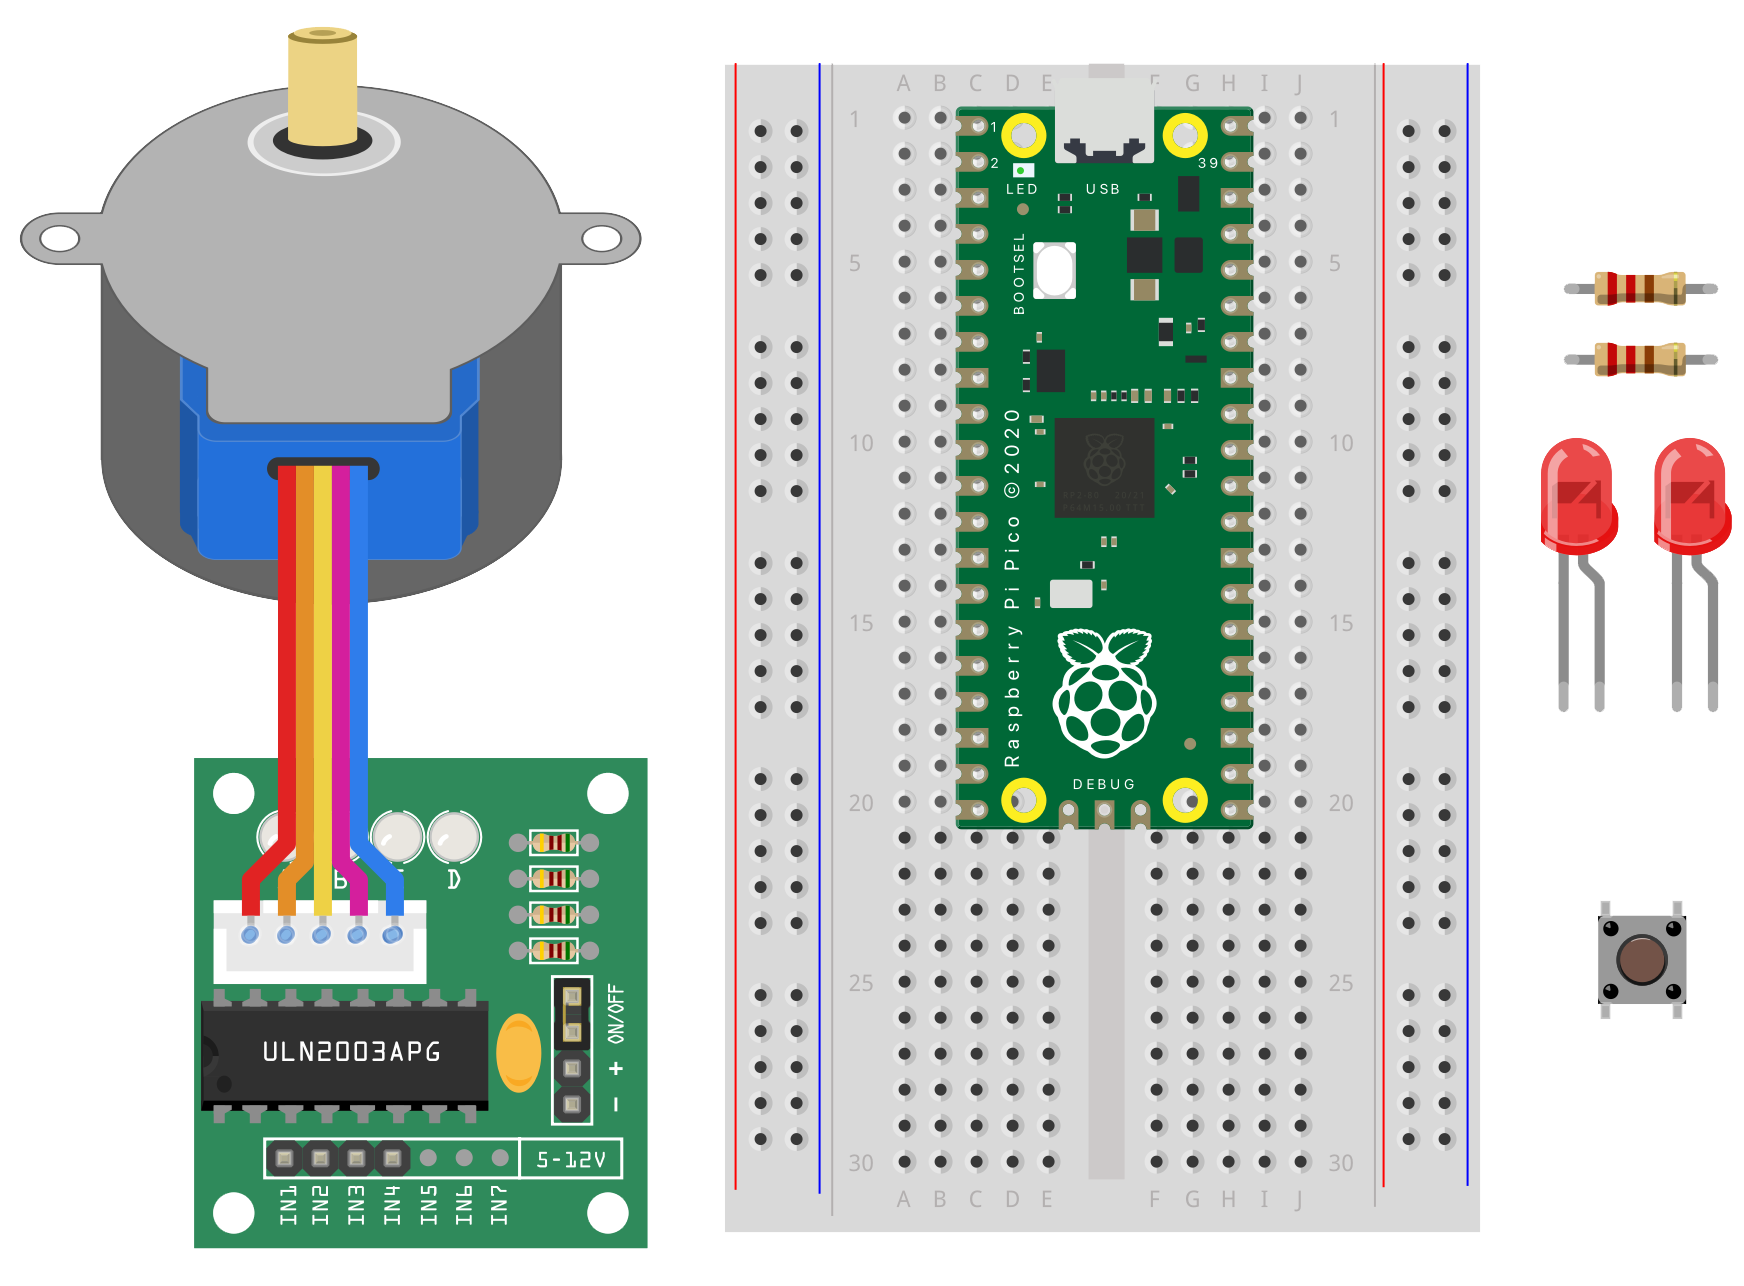
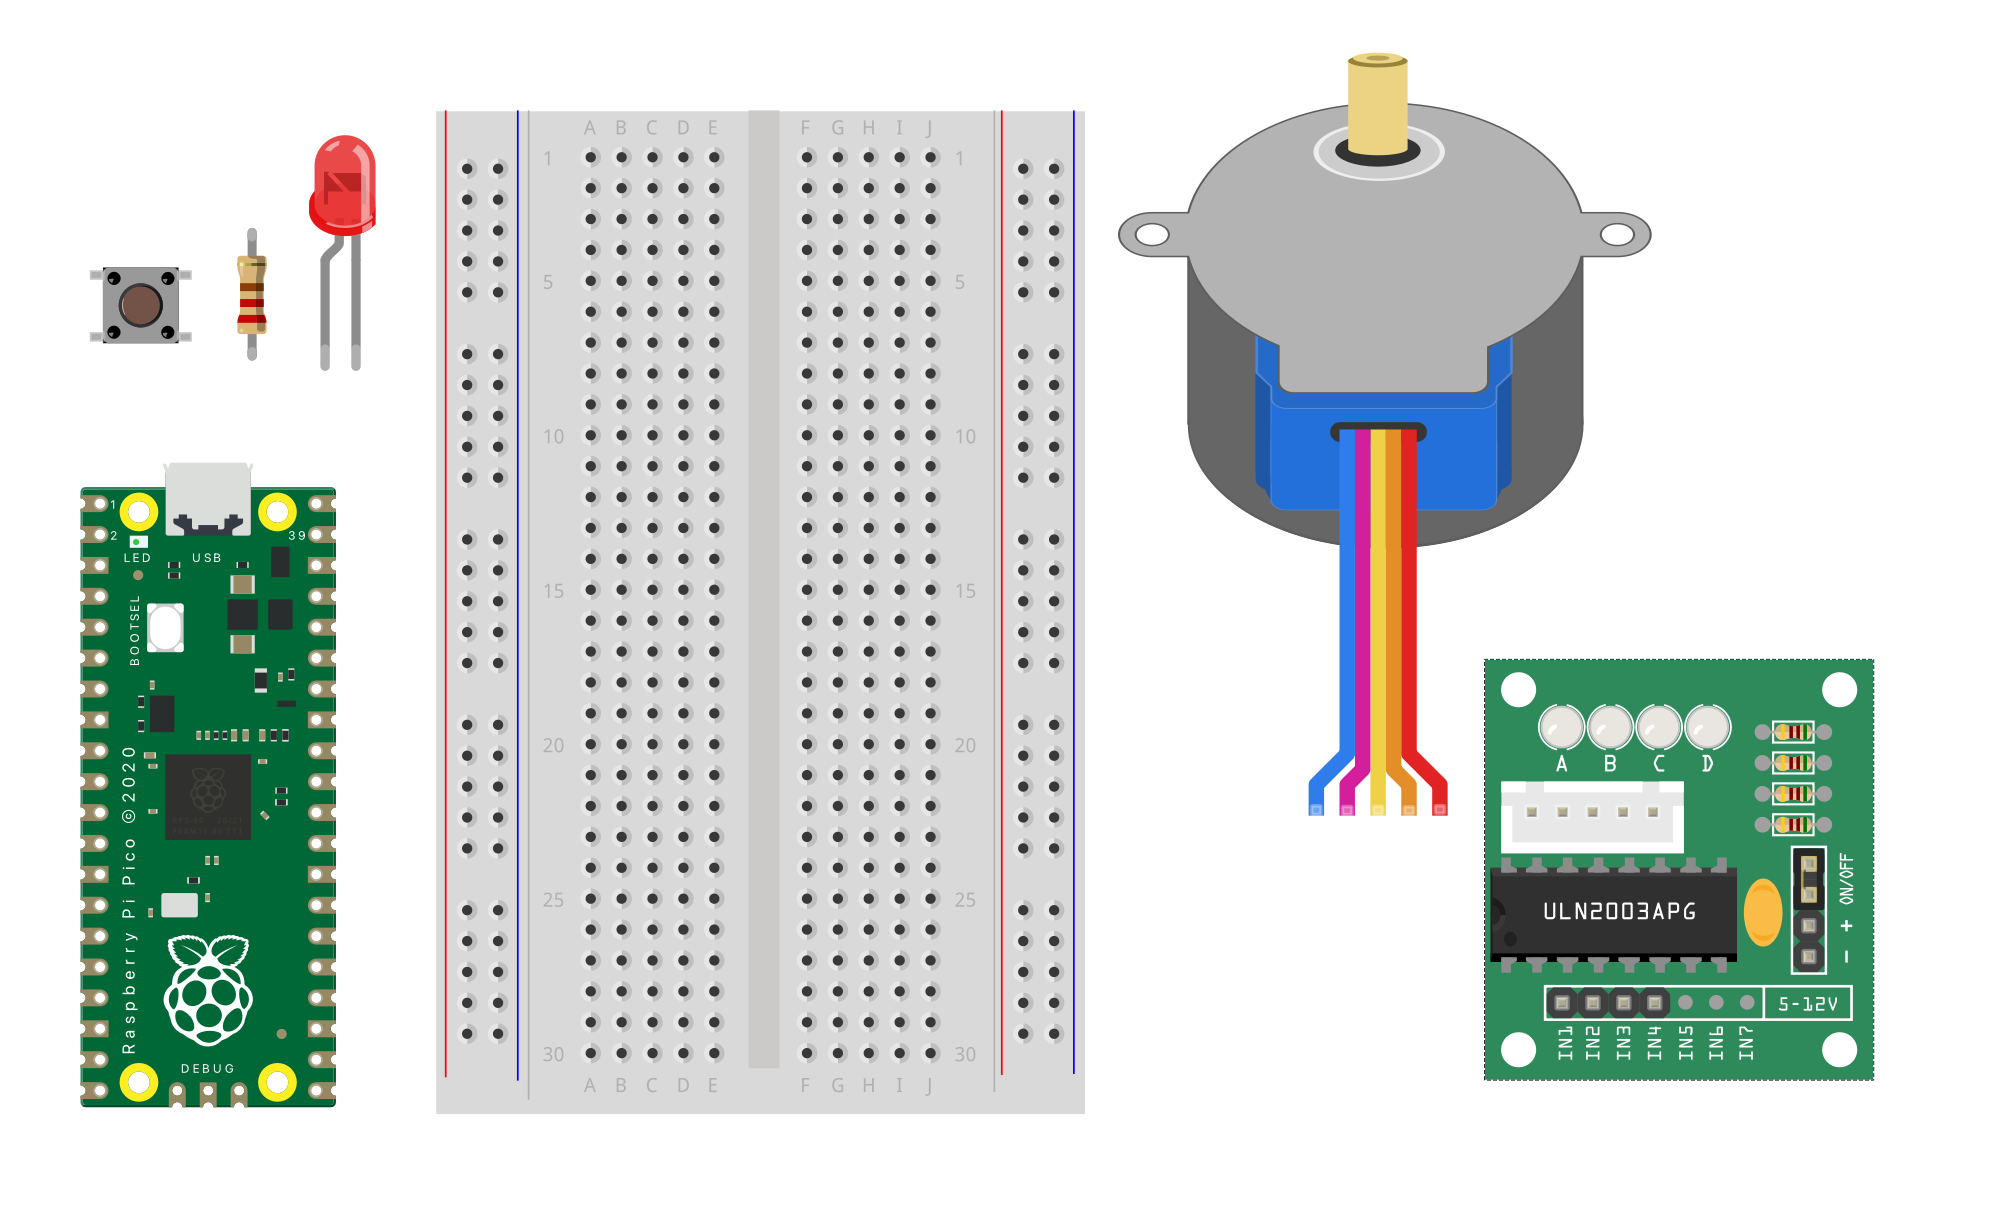
adding diagrams

diff --git a/en/step_2.md b/en/step_2.md
@@ -2,18 +2,26 @@
 
 --- task ---
 pico on breadboard
-![Pico in a breadbaord](images/IMAGE.png)
+![Pico in a breadbaord](images/pico.png)
 --- /task ---
 
 --- task ---
 stepper into the driver
-![Diagram of stepper motor and driver board, showing how it is plugged in, also listed above](images/IMAGE.png)
+![Diagram of stepper motor and driver board, showing how it is plugged in, also listed above](images/driver.png)
 --- /task ---
 
 --- task ---
-plug driver into pico
-![Driver pins in the breadbaord showing which pins to use in Pico, also listed above](images/IMAGE.png)
+plug + - driver into pico
+![Driver pins in the breadbaord showing which power pins to use in Pico, also listed above](images/power-full.png)
+![Close up of driver pins in the breadbaord showing which power pins to use in Pico, also listed above](images/power-close.png)
 --- /task ---
+
+--- task ---
+plug other pins of driver into pico
+![Driver pins in the breadbaord showing which pins to use in Pico, also listed above](images/driver-full.png)
+![Close up of driver pins in the breadbaord showing which pins to use in Pico, also listed above](images/driver-close.png)
+--- /task ---
+
 
 --- task ---
 get thonny working 

diff --git a/en/step_9.md b/en/step_9.md
@@ -1,6 +1,6 @@
 ## More challenges
 --- task ---
-make the lights do something differnt when the stepper motor stops - like a little cohorography
+add a second LED in a differnt colour and blink both
 --- /task ---
 
 --- task ---
@@ -8,5 +8,5 @@ make the dial do a little "dance" before choosing
 --- /task ---
 
 --- task ---
-coud you add a way of changing the words based on time - so it will move eveyrh now and again if not pressed - hint use XX from the time library
+make the lights do something differnt when the stepper motor stops - like a little cohorography
 --- /task ---

diff --git a/en/step_1.md b/en/step_1.md
@@ -10,7 +10,7 @@ Creative chooser. Could be used for lots of uter things such as XXX or as a time
 </html>
 
 ### You will need:
-For the **circuit**
+For the circuit
 - stepper moter
 - stepper driver
 - Pico (or raspberry pi????)
@@ -21,7 +21,7 @@ For the **circuit**
 
 ![Pico in a breadbaord, stepper motor, button, two resistors, and two LEDs](images/all-parts.png){:width="450px"}
 
-For the **device**
+For the device
 - carboard box or card to make a box
 - card to make dials
 - glue and or tape

diff --git a/en/step_3.md b/en/step_3.md
@@ -1,8 +1,9 @@
-## Add switch and pressed
+## Add button and pressed
 
 --- task ---
 add button to breadboard
-![Push button in a breadbaord](images/IMAGE.png)
+![Push button in a breadbaord](images/button-full.png)
+![Close up of push button in a breadbaord](images/button-close.png)
 --- /task ---
 
 --- task ---

diff --git a/en/step_4.md b/en/step_4.md
@@ -1,8 +1,9 @@
 ## Add LEDs
 
 --- task ---
-add two leds
-![LEDs in a breadbaord](images/IMAGE.png)
+add leds
+![LEDs in a breadbaord](images/led-full.png)
+![Close up of LEDs in a breadbaord](images/led-close.png)
 --- /task ---
 
 --- task ---
